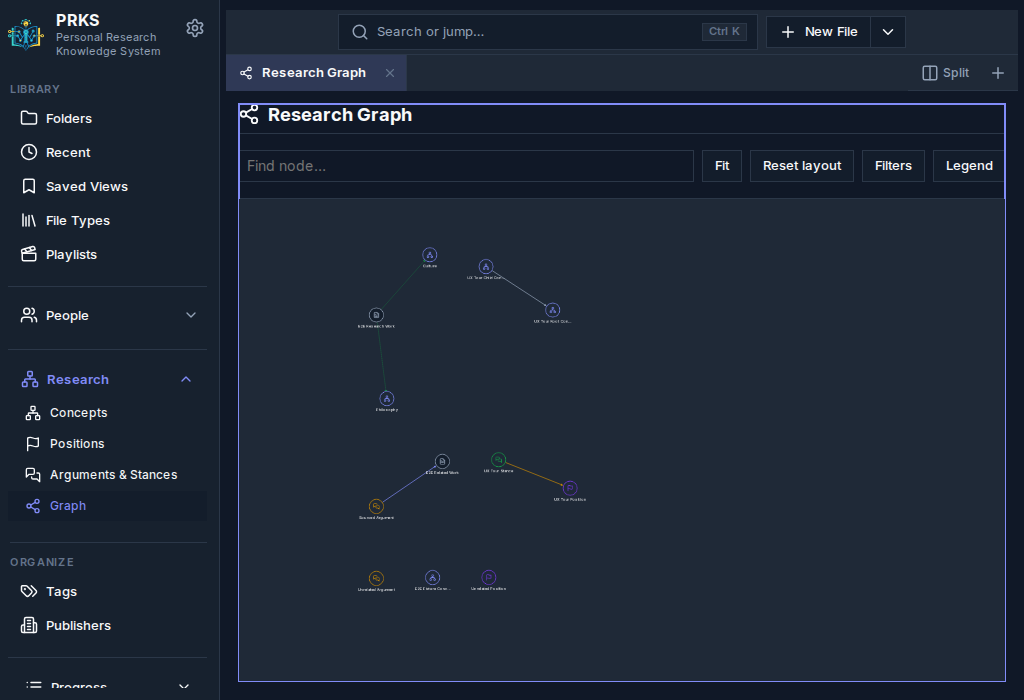
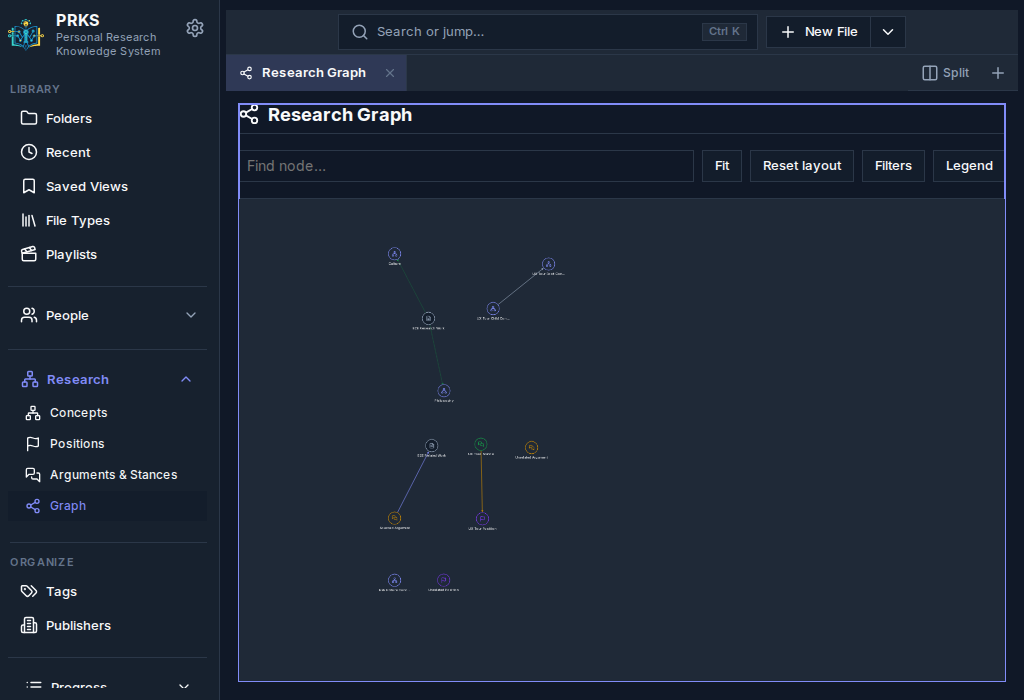
docs(ui): add consistency gallery screenshots
Seeded AppServer captures for folders, people, concept, work, graph,
settings modal, and narrow layouts under docs/screenshots/ui-ux-consistency/.

diff --git a/scripts/capture_ui_ux_gallery.py b/scripts/capture_ui_ux_gallery.py
@@ -57,24 +57,30 @@ def main() -> int:
             page.screenshot(path=str(OUT / name), full_page=False)
             print("wrote", name)
 
-        # Modal
-        page.evaluate("() => window.prksNavigate('#/folders')")
-        page.wait_for_timeout(400)
-        page.locator("#prks-ribbon-create").click()
-        page.wait_for_timeout(200)
-        # Open settings as a representative modal
+        # Modal — open Settings without leaving a create-file modal open.
         page.keyboard.press("Escape")
         page.wait_for_timeout(200)
-        page.locator("#sidebar button, #sidebar a").filter(has_text="").first  # no-op keep lint quiet
-        settings = page.locator('[data-lucide="settings"], #prks-open-settings, button[aria-label*="Settings"]')
-        if settings.count() == 0:
-            page.evaluate("() => { if (window.openModal) openModal('settings-modal'); }")
-        else:
-            settings.first.click()
-        page.wait_for_timeout(500)
+        page.evaluate(
+            """() => {
+                document.querySelectorAll('.modal').forEach((m) => {
+                    m.classList.remove('is-open', 'show');
+                    m.style.display = 'none';
+                });
+                if (typeof openModal === 'function') openModal('settings-modal');
+            }"""
+        )
+        page.wait_for_timeout(400)
         page.screenshot(path=str(OUT / "modal-settings.png"), full_page=False)
         print("wrote modal-settings.png")
         page.keyboard.press("Escape")
+        page.evaluate(
+            """() => {
+                document.querySelectorAll('.modal').forEach((m) => {
+                    m.classList.remove('is-open', 'show');
+                    m.style.display = 'none';
+                });
+            }"""
+        )
 
         # Narrow / mobile
         page.set_viewport_size(NARROW)
